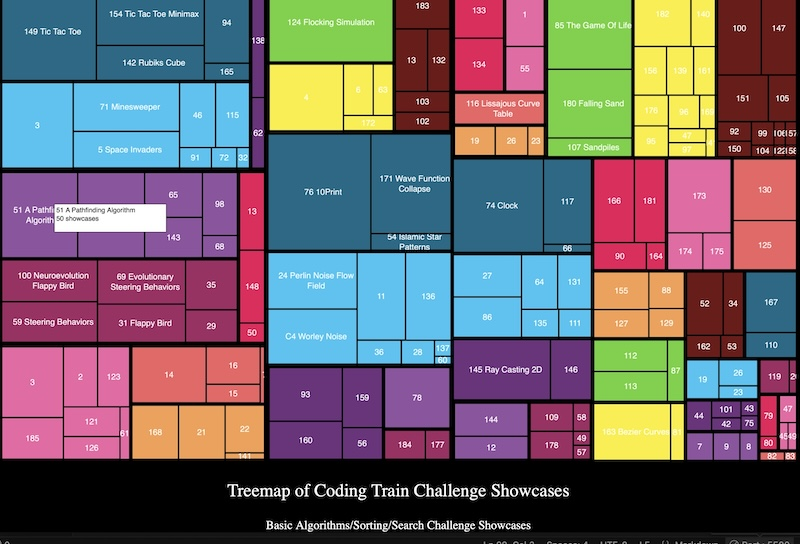
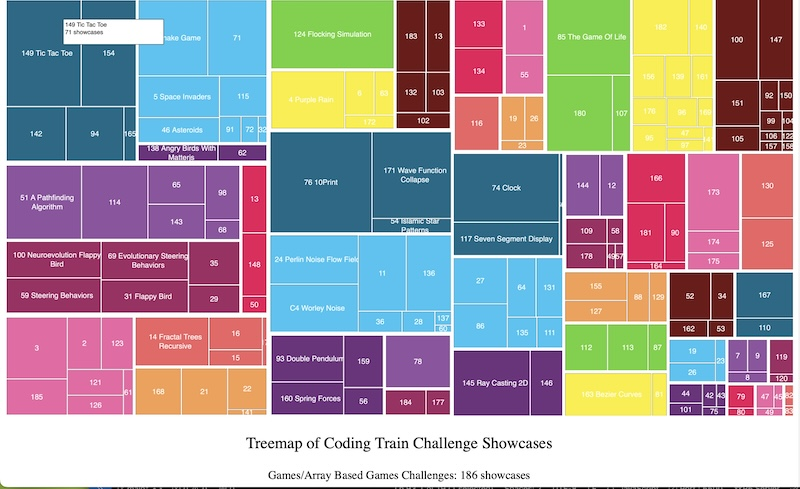
More sketch cleanup, edit readme

diff --git a/treemap/sketch.js b/treemap/sketch.js
@@ -1,8 +1,11 @@
-let root; //, treemapLayout;
-let treemapData;
+// Treemap of Coding Train Challlenge Showcase Count
+// JSON file as of 10-30-24
+
+// I utilized chatGPT to iteratively develop some of this code. I have found that it can be quite useful, provided you give it the proper context to understand what you want to accomplish. It is also important to remember that once you ask a question, it is logged to a database so do not post anything you wish to keep private.  The Coding Train website has a MIT license.  
+
+let root, treemapData; 
 let currentRoot;
-let p, p1, p2;
-let txt = "Coding Train";
+let p, p1;
 let graphics = [];
 let popup = null;
 let palette = [
@@ -26,10 +29,7 @@ function preload() {
 
 function setup() {
   createCanvas(windowWidth, windowHeight);
-  p = createP(`Treemap of ${txt} Challenge Showcases`).addClass("title");
-
-  currentWidth = width;
-  currentHeight = height;
+  p = createP(`Treemap of Coding Train Challenge Showcases`).addClass("title");
 
   // Initialize D3 Hierarchy and Treemap Layout
   root = d3
@@ -39,21 +39,20 @@ function setup() {
 
   treemapLayout = d3
     .treemap()
-    .size([currentWidth, currentHeight])
+    .size([width, height])
     .padding(3)
     .tile(d3.treemapSquarify);
 
-  // Set initial display level to the root
-  currentRoot = root;
+  //console.log(root)
 
   // Retrieve only the leaf nodes
-  treemapData = currentRoot.leaves();
-  applyTreemapLayout();
+  treemapData = root.leaves();
+  treemapLayout(root);
   drawTreemap();
 }
 
 function draw() {
-  background(0);
+  background(255);
   for (let g of graphics) {
     image(g.buffer, g.x, g.y, g.w, g.h);
   }
@@ -91,12 +90,11 @@ function setTitle(parent, value) {
 
 function drawTreemap() {
   graphics = []; // Clear the graphics array to avoid layering
-  background(0);
 
   let nodeColors = new Map(); // Map to store colors for each parent node
   let colorIndex = 0;
 
-  for (let node of currentRoot.leaves()) {
+  for (let node of root.leaves()) {
     const { x0, y0, x1, y1 } = node;
     let x = x0 || 0;
     let y = y0 || 0;
@@ -106,7 +104,6 @@ function drawTreemap() {
     let parentNode = node.parent;
 
     // Check if the parent already has a color assigned
-    // chatGPT helped with this bit of code
     if (!nodeColors.has(parentNode)) {
       // Assign the next color in the palette, cycling back if needed
       let color = palette[colorIndex % palette.length];
@@ -144,14 +141,11 @@ function drawTreemap() {
   }
 }
 
-// Helper function from chatGPT
+// Because most of the rectangles are too small to display the full challenge name  are extracting the challenge number.
+// The Coding in the Cabana challenges start with "C", so also have to account for that variation
 function getLeadingNumber(name) {
-  const match = name.match(/^C?(\d+)/); // Matches an optional "c" followed by digits
-  return match ? parseInt(match[1], 10) : null; // Extracts and converts the number portion
-}
-
-function applyTreemapLayout() {
-  treemapLayout(currentRoot);
+  const match = name.match(/^C?(\d+)/); // Matches an optional "C" followed by digits
+  return match ? parseInt(match[1], 10) : null; 
 }
 
 function mouseMoved() {

diff --git a/treemap/style.css b/treemap/style.css
@@ -1,17 +1,16 @@
 html,
 body {
-  /* margin: 0;
-  /* padding: 0; */
-  background-color: black;
+  margin: 0;
+  padding: 0;
+  background-color: white;
 }
 canvas {
   display: block;
   margin-left: auto;
   margin-right: auto;
-  padding-top: 1em;
 }
 .title {
-  color: white;
+  color: black;
   font-size: 3em;
   margin-left: auto;
   margin-right: auto;
@@ -19,10 +18,9 @@ canvas {
 }
 
 #second {
-  color: white;
-  font-size: 2em;
+  color: black;
+  font-size: 2.2em;
   margin-left: auto;
   margin-right: auto;
   text-align: center;
 }
-

diff --git a/zoomable_treemap_with_hover/sketch.js b/zoomable_treemap_with_hover/sketch.js
@@ -34,6 +34,7 @@ function setup() {
 
   // Initialize D3 Hierarchy and Treemap Layout
   root = d3.hierarchy(data).sum((d) => d.value);
+  console.log(root)
 
   treemapLayout = d3
     .treemap()

diff --git a/README.md b/README.md
@@ -1,12 +1,30 @@
-# Treemap 0f Coding Train Challenges Showcases
+# Treemap 0f Coding Train Challenges Showcases 
 
-A while back I found a zoomable treemap of US imports that I really liked and decided to create my own version of a zoomable treemap. A good rule of thumb is that you should start with data that you know pretty well, so I decided to start with data on the Coding Train challenge showcase counts. After a few iterations, I have come up with a zoomable treemap in p5.js using [d3js](https://d3js.org), illustrated with [Coding Train](https://github.com/CodingTrain/thecodingtrain.com) challenge showcase count.
+A while back I found a zoomable treemap of US imports that I really liked and decided to create my own version of a zoomable treemap. A good rule of thumb is that you should start with data that you know pretty well, so I decided to start with data on the Coding Train challenge showcase counts (since I help to maintain the [Coding Train](https://github.com/CodingTrain/thecodingtrain.com) website). After a few iterations, I have come up with two versions of the treemap in p5.js using [d3js](https://d3js.org), illustrated with Coding Train challenge showcase count. The first lists all of the challenges in one view, with the challenges grouped together into major categories:
 
 <p align="center"><img src="assets/treemap.jpg" alt="Treemap of Coding Challenge showcases" width="500px"></p>
 
-## Steps
+As you can see, because there are so many challenges that quite a few of the rectangles are very small and there was only space to list the challenge number. A popup window lists the full challenge name and showcase count. You can explore the treemap [here](https://editor.p5js.org/kfahn/full/hKThc8O9o).
 
-1. Make sure you are in the directory that you want to base the treemap on, and then run this [command](https://stackoverflow.com/questions/71669974/how-to-count-number-of-tracked-files-in-each-sub-directory-of-the-repository) in terminal.
+The second one is a zoomable treemap. Only the major categories are listed in the first view, and you click into a deeper view. You can explore the zoomable treemap [here](https://editor.p5js.org/kfahn/full/snbNKwyWW).
+
+<p align="center"><img src="assets/zoomable-treemap.jpg" alt="Zoomable reemap of Coding Challenge showcases" width="500px"></p>
+
+The basic principle behind a treemap is fairly simple -- visually represent the data by drawing a rectangle for each data point, with the area proportional to the relative value of that point. For example, as of 10-30-24 there 2800 challenge showcases on the website, and 90 have been submitted to 10Print. Consequently, the area for the 10Print Coding Challenge should be large relative to the size of another challenge with only a few showcases.
+
+A naive attempt results in skinny, elongated rectangles. The squarify algorithm was developed to address this issue by improving the aspect ratio of the rectangles. I am utilizing the d3.js library, which has an option to build a treemap using the squarify algorithm. You will need to add the d3.js library in the index.html file.
+
+```html
+ <script src="https://cdn.jsdelivr.net/npm/d3@7.9.0/dist/d3.min.js"></script>
+```
+
+## Steps to Create a Squarified Treemap
+
+### Generate or obtain a json file
+
+Since there was no pre-existing JSON file with data on Coding Train challenge showcase count, I had to generate one. There are, however, many pre-existing files that you could use. If you would like more information on how to access and import a JSON file into a p5 sketch, I recommend watching Daniel Shiffman's [Working with Data and APIs in JavaScript](https://thecodingtrain.com/tracks/data-and-apis-in-javascript) tutorials.
+
+If you want to create your own, make sure you are in the directory that you want to base the treemap on, and then run this [command](https://stackoverflow.com/questions/71669974/how-to-count-number-of-tracked-files-in-each-sub-directory-of-the-repository) in terminal.
 
 <p align="center"><img src="assets/git.png" alt="git command" width="500px"></p>
 
@@ -24,11 +42,11 @@ The output of this command will look like something like this:
 1 content/videos/challenges/102-2d-water-ripple/images/
 ```
 
-2. Copy the result of the command and paste into a .txt file. (I named the file "10_30_24.txt" because I wanted to keep track of the date I accessed the Coding Train website files.)
+I copied the result of the command and pasted into a .txt file. (I named the file "10_30_24.txt" because I wanted to keep track of the date I accessed the Coding Train website files.)
 
-I got some help from chatGPT writing the script to create the json file. It could probably be improved upon, but it is functional. Because I wanted to explore creating a zoomable treemap, I grouped the challenges into major categories and then divided some into sub-categories. Again, my categorization scheme could probably be improved upon, but I think it is a decent start.
+I got some help from chatGPT writing the script to create the JSON file. It could probably be improved upon, but it is functional. Because I wanted to explore creating a zoomable treemap, I grouped the challenges into major categories and then divided some into sub-categories. The categorization scheme is based on my knowledge of what topics were covered in each challenge and was a bit of a judgement call, which is often the data with data analysis.
 
-3. Run the `create_json.py` script in terminal, changing `input_file` (line 131) to whatever you have named the txt file. Make sure you are in the same folder as the txt file when you run the command.
+Run the `create_json.py` script in terminal, changing `input_file` (line 131) to whatever you have named the txt file. Make sure you are in the same folder as the txt file when you run the command.
 
 ```python
 python create_json.py
@@ -59,7 +77,7 @@ The output will be a json file (`showcases.json`). It will have the following fo
         },
 ```
 
-4. Preload the json file into your p5 sketch using the loadJSON() function.
+### Preload the json file into your p5 sketch
 
 ```JavaScript
 function preload() {
@@ -67,7 +85,7 @@ function preload() {
 }
 ```
 
-5. Initialize the d3 hierarchy and treemap layout.
+### Initialize the d3 hierarchy and treemap layout
 
 ```JavaScript
 root = d3.hierarchy(data).sum((d) => d.value);
@@ -80,7 +98,7 @@ root = d3.hierarchy(data).sum((d) => d.value);
 
 We are specifying the `treemapSquarify` option for the tile because this give a nicer aspect ratio for the rectangles - the default is to use the golden ratio although it is possible to choose others. (Note that the documentation notes that this is the goal, and does not guarantee nice rectangles with nice aspect ratios.) You can learn more about treemaps by reading the paper "Squarified Treemaps" by Bruls, et. al.
 
-I decided to try to create a zoomable treemap to visualize the showcase (similar to this [one](https://observablehq.com/@d3/zoomable-treemap) listed in the examples on the d3 website). They use svg container, which is not something that is natively supported in p5.js. I was able to create my own version (with some help from chatGPT) using a createGraphics buffer. I am sure there are many improvements that could be added, but it is a decent start. You can explore the treemap here.
+The d3.js examples use svg container, which is not something that is natively supported in p5.js. I was able to create my own version (with some help from chatGPT) using a createGraphics buffer.
 
 ## Resources
 
